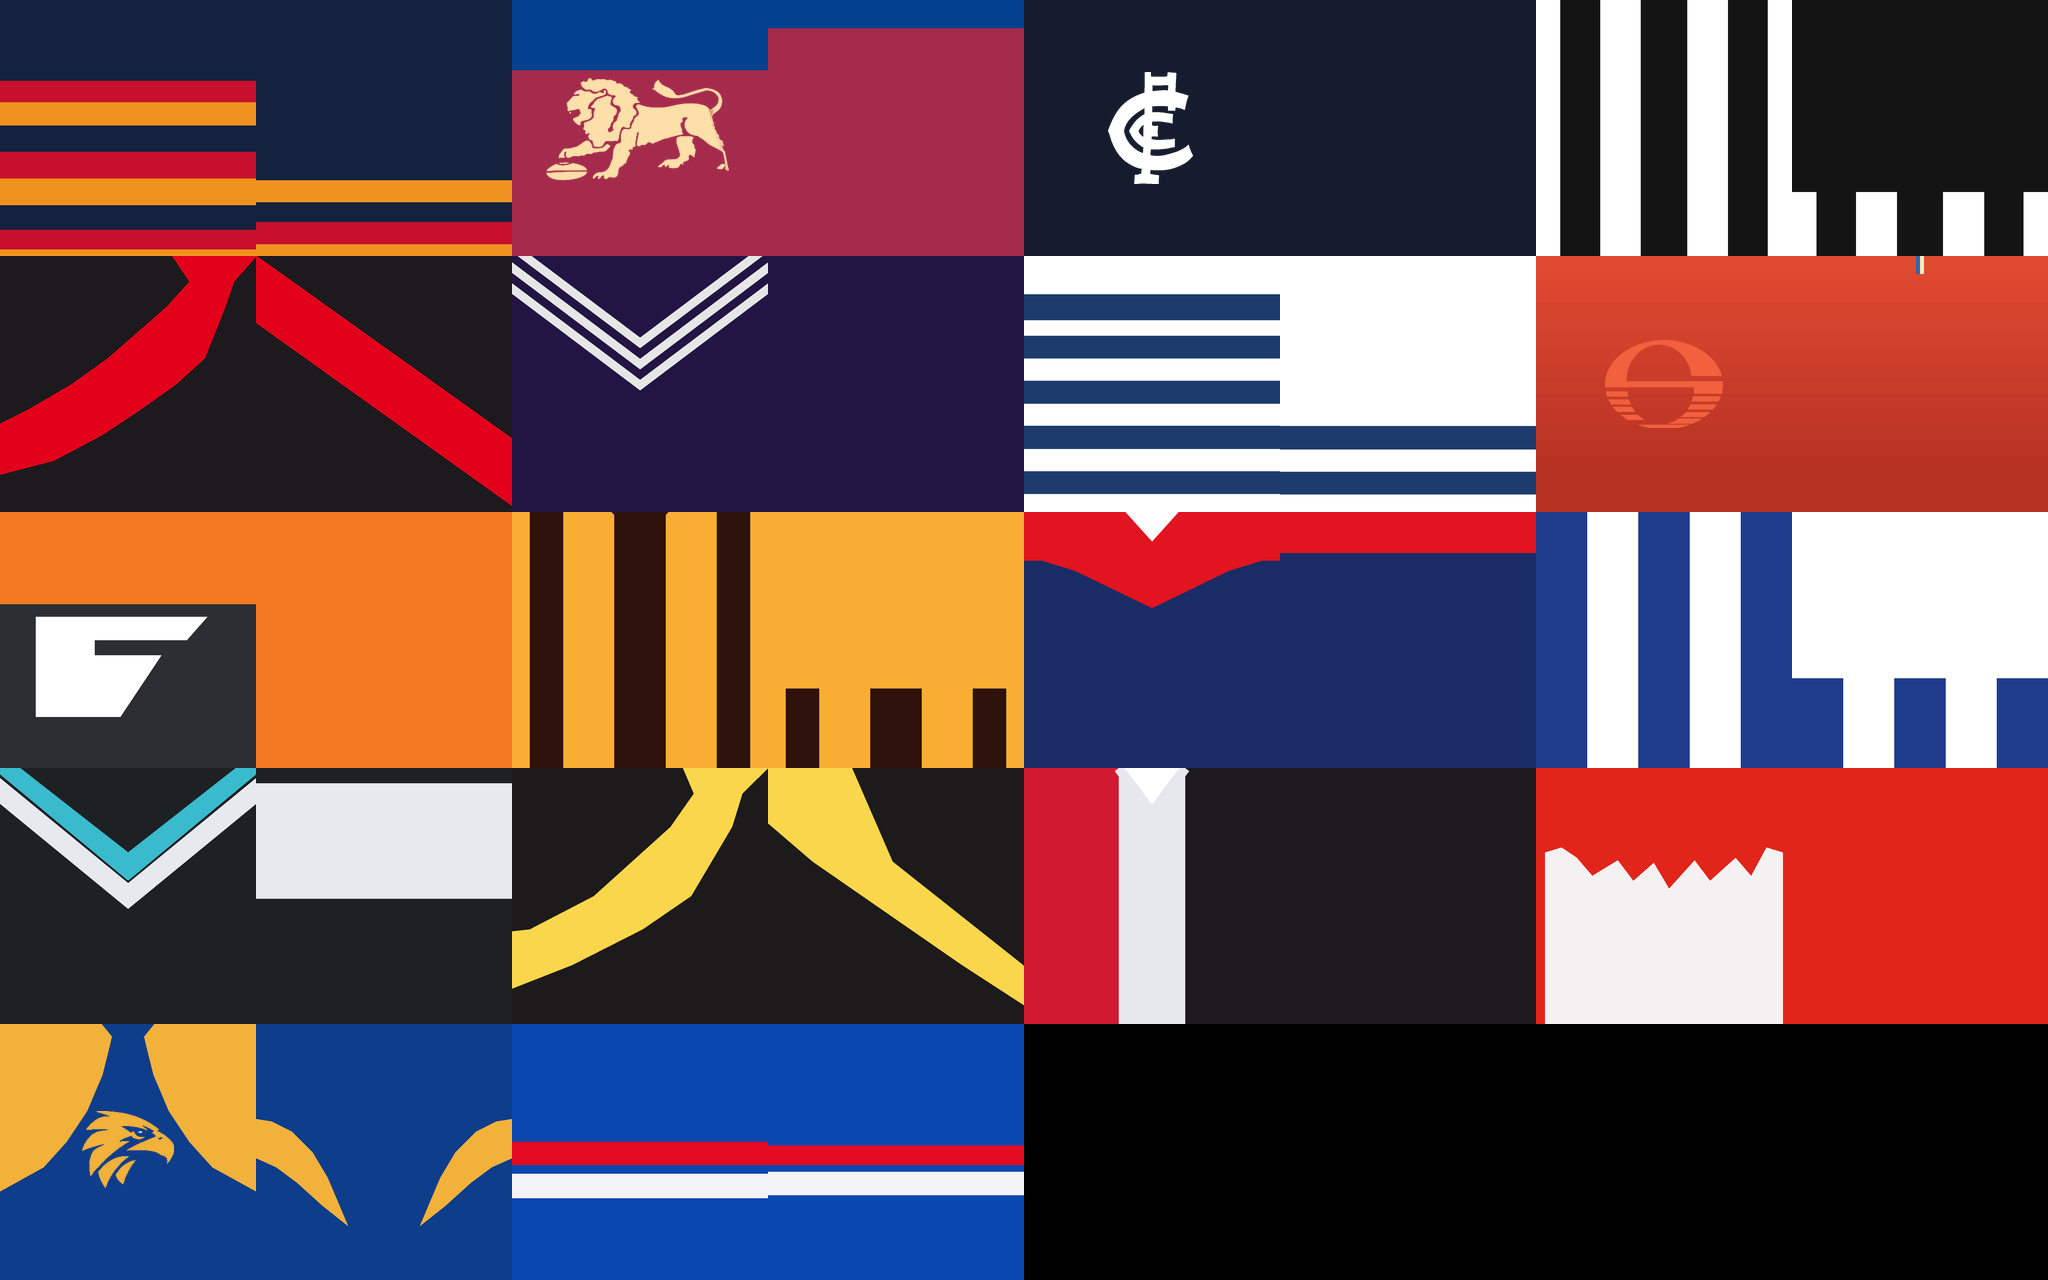
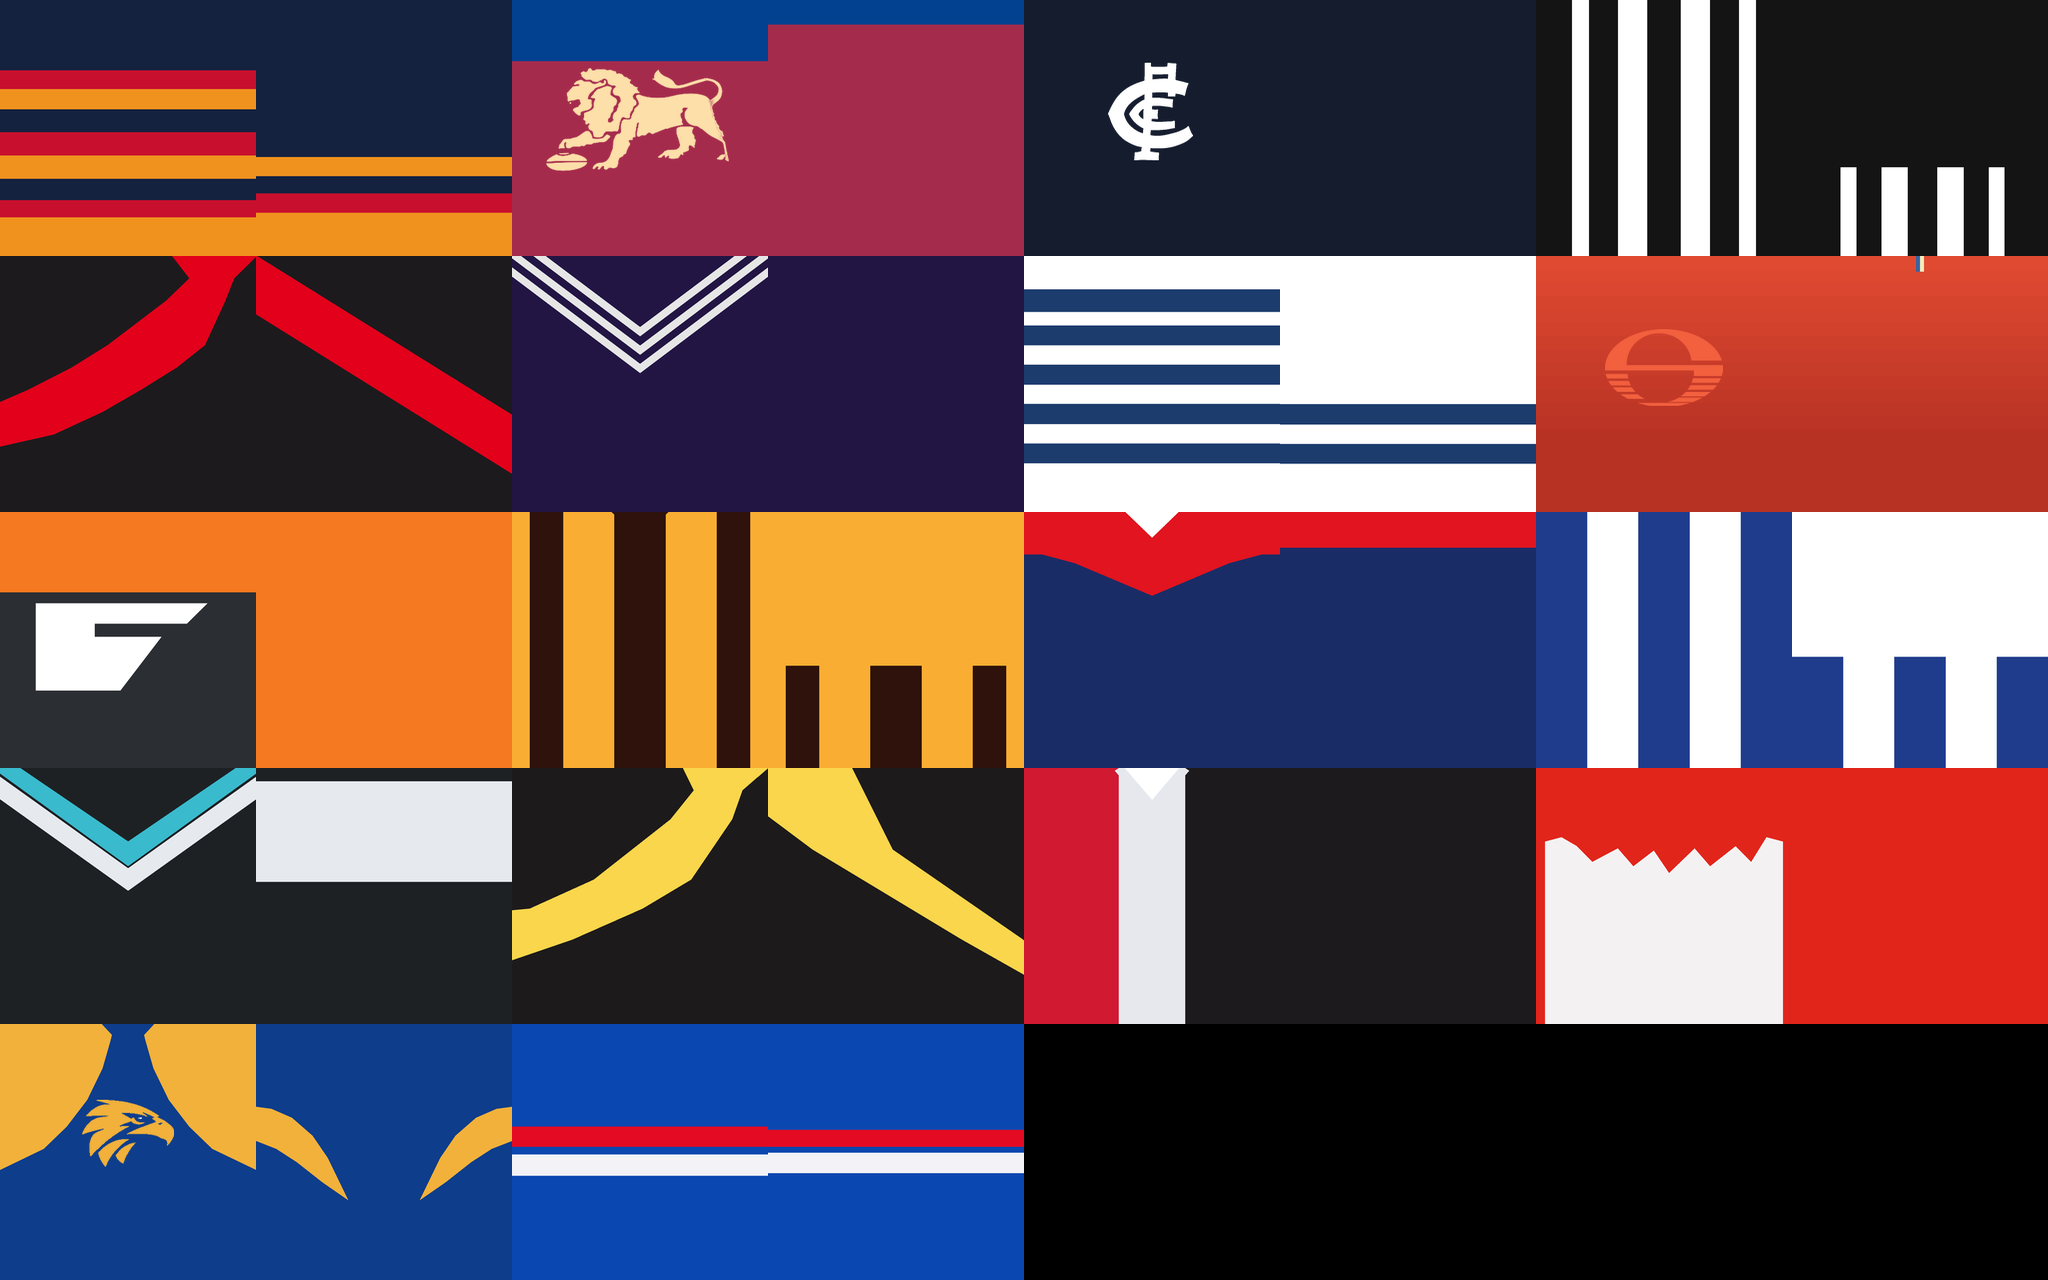
Guernsey notes 9-16: photo hem on the player's hem, smooth cloth under it, Collingwood's stripes fitted, steeper Fremantle chevrons, the lion's own shape
Every photo is drawn whole and squeezed into the top 87% of its square, where the 3D hem falls, so nothing above the hem is cut off. The guernsey cloth below the drawn hem (worn as shorts) is smoothed in the rest pose and every build morph. Collingwood's stripes are fitted into the part of the body seen from straight on, so the photo's edge stripes show.

diff --git a/tools/kits/kits_today.py b/tools/kits/kits_today.py
@@ -30,6 +30,11 @@ Shapes and colours only, never sponsors, maker or league logos (director 2026-11
 off"). The club marks that are part of the guernsey's own design (the Lions' lion, Carlton's
 monogram, the Eagles' head, the Suns' sun) are drawn: director 2026-11-17, "Draw all five marks".
 Each mask is cut from the club's shop photo (the Suns' sun is redrawn from its measured shapes).
+
+y 1 is the photo's hem. On the 3D player the guernsey's hem falls 87% of the way down the square
+(measured with a ruler picture, 2026-11-17), so each side is drawn whole and then squeezed into the
+top 87%: the photo's hem lands on the player's hem and nothing above it is cut off (director
+2026-11-17: "have the guernseys look exactly like the real ones").
 """
 import csv
 import math
@@ -70,6 +75,9 @@ def parse(path, clubs):
     return kits
 
 
+HEM = 0.87  # where the 3D guernsey's hem falls down the square
+
+
 def draw(ops, cols, marks_dir):
     """The side's picture: kit_atlas's ops, then each mark stamped on top."""
     im = kit_atlas.draw_side([o for o in ops if o.split()[0] != "mark"], cols)
@@ -82,7 +90,10 @@ def draw(ops, cols, marks_dir):
         mask = Image.open(os.path.join(marks_dir, name + ".png")).convert("L")
         mask = mask.resize((x1 - x0, y1 - y0), Image.LANCZOS)
         im.paste(Image.new("RGB", mask.size, c), (x0, y0), mask)
-    return im
+    # The photo's hem onto the player's hem; under it, the bottom row carried down (never seen).
+    full = im.crop((0, im.height - 1, im.width, im.height)).resize(im.size)
+    full.paste(im.resize((im.width, round(im.height * HEM)), Image.LANCZOS), (0, 0))
+    return full
 
 
 def main():
